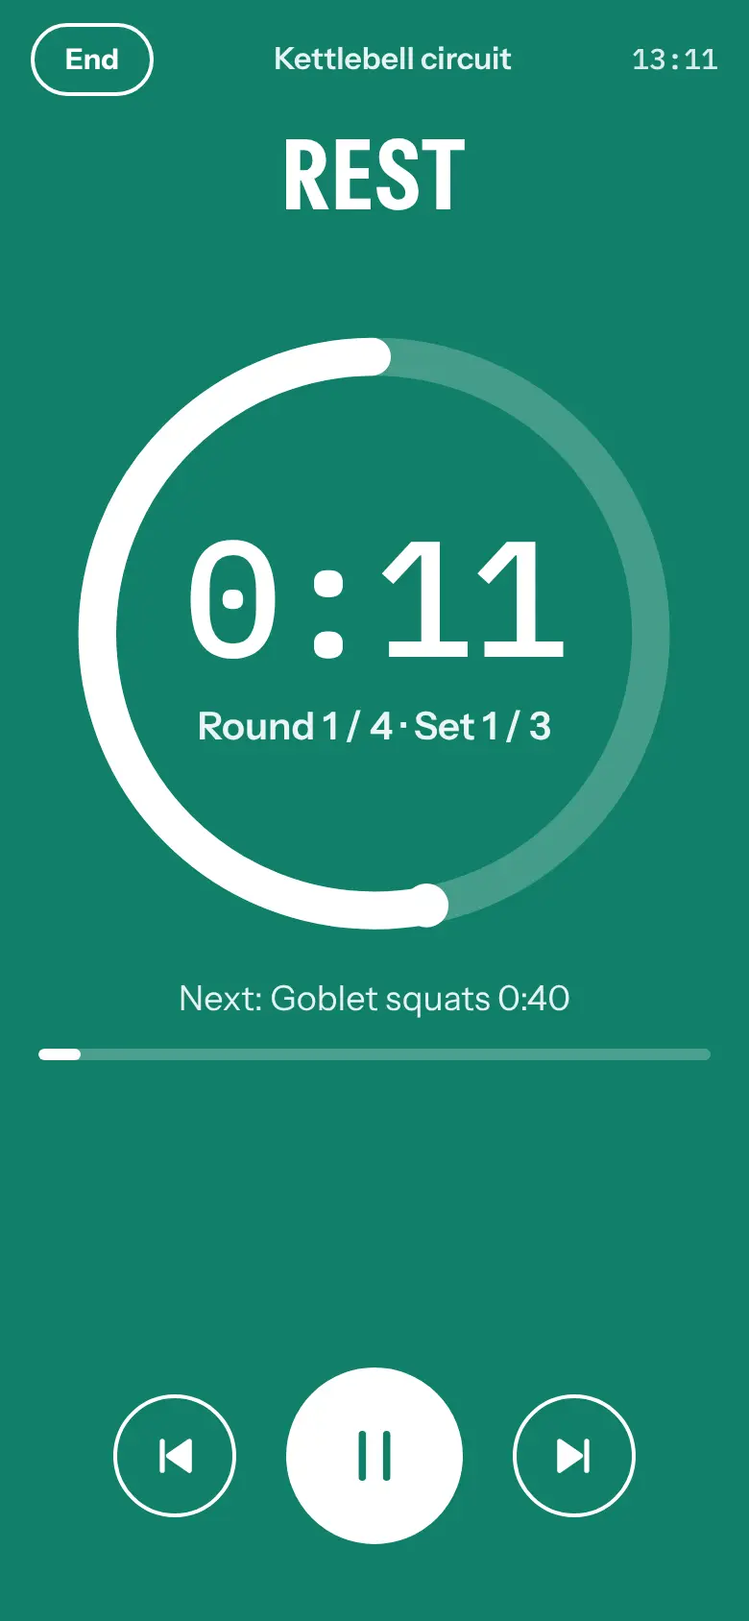
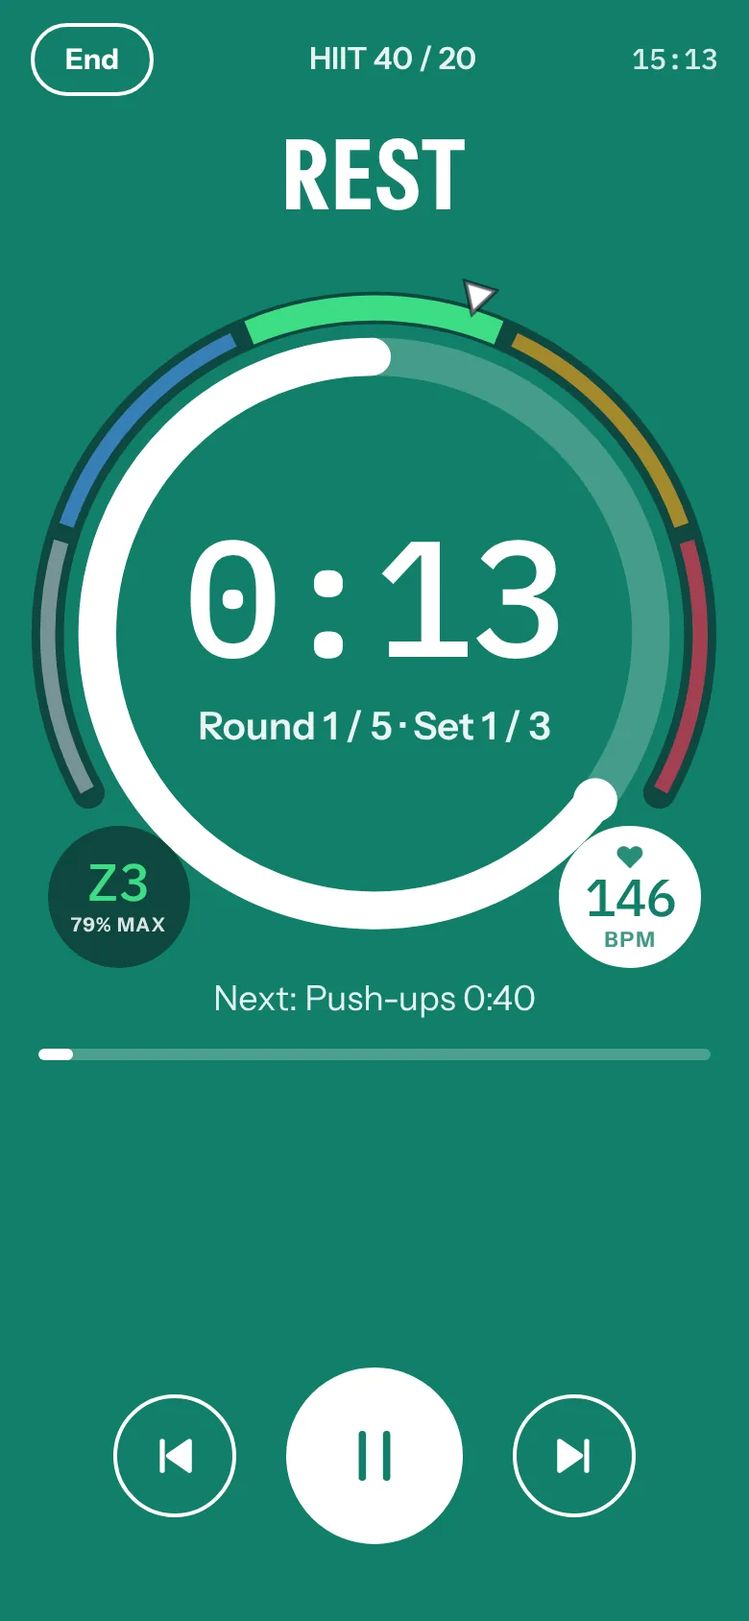
Flatbed launch: homepage card, Flatbed page and manual; Rounds rest screenshot
- Homepage: Flatbed card at the top (newest first).
- /flatbed/ page and /flatbed/manual/ (FB entry in tools/pages.mjs, manual from
  Flatbed's docs/MANUAL.md at 1.0.0 on its test branch), five screenshots,
  link-preview image social/og-flatbed.jpg, icons/flatbed.svg; sitemap.
- Rounds: rest screenshot with the zone ring, to match the work screenshot.

Held on this branch until Flatbed 1.0.0 is released; not for main before then.

Claude-Session: https://claude.ai/code/session_012xu5y2k6Q8KBdMQGucsDEw

diff --git a/flatbed/manual/index.html b/flatbed/manual/index.html
@@ -1,0 +1,146 @@
+<!doctype html>
+<html lang="en">
+<head>
+<meta charset="utf-8">
+<meta name="viewport" content="width=device-width,initial-scale=1,viewport-fit=cover">
+<title>Flatbed user manual</title>
+<meta name="description" content="How to use Flatbed: taking good photos, adjusting pages, making the PDF, reading text, and what it keeps private.">
+<link rel="canonical" href="https://anonacondacodelab.com/flatbed/manual/">
+<meta property="og:type" content="website">
+<meta property="og:site_name" content="Anonaconda Code Lab">
+<meta property="og:title" content="Flatbed user manual">
+<meta property="og:description" content="How to use Flatbed: taking good photos, adjusting pages, making the PDF, reading text, and what it keeps private.">
+<meta property="og:url" content="https://anonacondacodelab.com/flatbed/manual/">
+<meta property="og:image" content="https://anonacondacodelab.com/social/og-flatbed.jpg">
+<meta property="og:image:width" content="1200">
+<meta property="og:image:height" content="630">
+<meta name="twitter:card" content="summary_large_image">
+<meta name="referrer" content="no-referrer">
+<meta name="theme-color" content="#22362B">
+<link rel="icon" href="/favicon.ico" sizes="48x48">
+<link rel="icon" href="/favicon-192.png" type="image/png" sizes="192x192">
+<link rel="apple-touch-icon" href="/apple-touch-icon.png">
+<style>
+@font-face{font-family:"Instrument Sans";font-style:normal;font-display:swap;font-weight:400 700;font-stretch:75% 100%;
+  src:url(/fonts/InstrumentSans-latin-variable.woff2) format("woff2-variations")}
+:root{--paper:#ECEFE7; --new:#B31F39; --new-ink:#FFFFFF;--ink:#22362B;--line:#6E7F3A;--muted:#5E6B61;--rule:#CBD2C4;--head:#8FA048;--card:#F6F8F3;color-scheme:light dark}
+@media (prefers-color-scheme:dark){:root{--paper:#141A16; --new:#F07A8D; --new-ink:#141A16;--ink:#E3E8DE;--line:#A9B865;--muted:#94A096;--rule:#2C362F;--head:#B9C97A;--card:#1A221D}}
+*{box-sizing:border-box}
+html{-webkit-text-size-adjust:100%}
+body{margin:0;background:var(--paper);color:var(--ink);font:400 17px/1.6 "Instrument Sans",system-ui,sans-serif}
+a{color:inherit}
+a:focus-visible,summary:focus-visible{outline:2px solid var(--line);outline-offset:3px;border-radius:4px}
+.wrap{max-width:760px;margin:0 auto;padding-left:max(20px,env(safe-area-inset-left,0px));padding-right:max(20px,env(safe-area-inset-right,0px))}
+.crumbs{display:flex;align-items:center;gap:10px;padding-top:28px;font-size:15px;color:var(--muted)}
+.crumbs a{display:flex;align-items:center;gap:10px;font-weight:600;text-decoration:none}
+.crumbs img{width:30px;height:30px}
+header.hero{padding:40px 0 8px}
+.hero .icon{width:64px;height:64px;display:block}
+h1{font-size:clamp(44px,10vw,80px);line-height:.95;font-stretch:75%;font-weight:650;letter-spacing:-.01em;margin:18px 0 0;text-wrap:balance}
+.lede{font-size:clamp(19px,2.6vw,22px);line-height:1.45;max-width:32em;margin:18px 0 0}
+.needs{font-size:15px;color:var(--muted);max-width:40em;margin:10px 0 0}
+.links{display:flex;flex-wrap:wrap;gap:10px 18px;align-items:center;margin-top:20px}
+.open{display:inline-block;background:var(--ink);color:var(--paper);text-decoration:none;font-weight:600;padding:11px 20px;border-radius:999px}
+.open:hover{background:var(--line);color:#fff}
+.links a:not(.open){font-weight:500;text-underline-offset:3px}
+.soon{font-size:15px;margin-top:12px}
+.soon span{display:inline-block;font-size:11.5px;font-weight:650;letter-spacing:.06em;text-transform:uppercase;background:var(--line);color:var(--paper);padding:2px 9px;border-radius:999px;margin-right:9px;vertical-align:1px}
+.soon.new{margin-top:14px;padding:11px 14px;border-left:4px solid var(--new);border-radius:10px;background:color-mix(in srgb,var(--new) 9%,transparent);font-weight:550}
+.soon.new span{background:var(--new);color:var(--new-ink);font-size:13px;padding:3px 11px}
+.soon.new a{color:var(--new);font-weight:700}
+.shots{display:flex;gap:14px;overflow-x:auto;padding:28px 2px 18px;margin:20px 0 0;scroll-snap-type:x mandatory}
+.shots figure{margin:0;flex:none;width:210px;scroll-snap-align:start}
+.shots img{width:100%;height:auto;display:block;border-radius:18px;border:1px solid var(--rule);background:var(--card)}
+.shots.wide figure{width:280px}
+.shots figcaption{font-size:13.5px;color:var(--muted);margin-top:8px;line-height:1.35}
+h2{font-size:30px;font-stretch:85%;font-weight:600;line-height:1.1;margin:44px 0 6px;text-wrap:balance}
+h3{font-size:18.5px;font-weight:600;margin:0}
+.features{display:grid;grid-template-columns:repeat(auto-fit,minmax(240px,1fr));gap:22px 28px;margin-top:18px}
+.features p{margin:4px 0 0;font-size:16px}
+.needlist{margin:10px 0 0;padding-left:20px}
+.needlist li{margin:4px 0}
+details{border-top:1px solid var(--rule);padding:14px 0}
+details:last-of-type{border-bottom:1px solid var(--rule)}
+summary{cursor:pointer;font-weight:600;font-size:17.5px}
+details p{margin:8px 0 0;max-width:40em}
+.note{font-size:15px;color:var(--muted);margin-top:26px;max-width:40em}
+.manual{max-width:42em}
+.manual h2{font-size:26px;margin-top:36px}
+.manual h3{margin-top:22px;font-size:18px}
+.manual ul,.manual ol{padding-left:22px}
+.manual li{margin:4px 0}
+.manual code{font-size:14px;background:var(--card);border:1px solid var(--rule);border-radius:5px;padding:0 4px;overflow-wrap:anywhere}
+.manual .callout{border:2px solid var(--head);border-radius:14px;padding:4px 18px;margin:18px 0;background:var(--card)}
+.manual hr{border:0;border-top:1px solid var(--rule);margin:28px 0}
+.manual table{border-collapse:collapse;margin:14px 0;font-size:16px;display:block;overflow-x:auto;max-width:100%}
+.manual th,.manual td{border-bottom:1px solid var(--rule);padding:6px 16px 6px 0;text-align:left;white-space:nowrap}
+.manual th{font-weight:600}
+footer{border-top:1px solid var(--rule);margin-top:48px;padding:26px 0 48px;font-size:15px;color:var(--muted)}
+footer nav{display:flex;flex-wrap:wrap;gap:8px 22px;margin-bottom:14px}
+footer nav a{color:var(--ink);font-weight:500;text-underline-offset:3px}
+footer p{margin:6px 0;max-width:40em}
+</style>
+</head>
+<body>
+<div class="wrap">
+  <div class="crumbs"><a href="/"><img src="/favicon-192.png" alt="">Anonaconda Code Lab</a></div>
+  <header class="hero">
+    <img class="icon" src="/icons/flatbed.svg" alt="">
+    <h1>Flatbed user manual</h1>
+    <div class="links"><a class="open" href="https://flatbed.anonacondacodelab.com">Open Flatbed</a><a href="/flatbed/">About Flatbed</a></div>
+  </header>
+  <main><article class="manual">
+<h2>What Flatbed does</h2>
+<p>Flatbed turns photos of documents into clean, flat, readable PDFs. Photograph a letter, a form, a receipt or an ID card, and Flatbed finds the page, corrects the angle, straightens the text, cleans up shadows, reads the text and puts it all in a PDF that you can search and copy from.</p>
+<p>Everything happens <b>on your device</b>. Your pages are never uploaded anywhere, and nothing is kept once you close the app.</p>
+<div class="callout"><p>A scanner sees your most private papers: passports, bank letters, contracts, medical results. Most scanner apps send them to their own servers to read the text. Flatbed can't: it has no way to connect to the internet at all.</p></div>
+<h2>Why scan with Flatbed</h2>
+<ul><li><b>Passport and ID copies.</b> A visa application, a new rental, a school or a job often asks for a copy of your passport or ID card. With Flatbed that copy is made and kept on your phone only, and goes only where you send it.</li><li><b>Money and work.</b> Bank letters, tax forms, payslips and contracts are read and turned into a PDF right here, without an account and without anyone else's server seeing the numbers.</li><li><b>Health.</b> Prescriptions, test results and insurance claims stay between you and whoever you choose to send them to.</li><li><b>Receipts and expense claims.</b> The PDF holds the receipt and nothing else: no phone model, no location, no date and time of the photo.</li><li><b>Documents for strangers.</b> Landlords, employers, agencies and online forms get the pages you meant to send, not details about you or your phone.</li></ul>
+<h2>How to scan</h2>
+<ol><li>Tap <b>Take a photo</b>, or <b>Import photos</b> to use pictures you already have. You can add pages one after another. In the Android app, <b>Take a photo</b> opens your phone's own camera app. Flatbed itself has no camera permission. You can also share photos to Flatbed from your gallery (<b>Share → Flatbed</b>).</li><li>Flatbed looks for the edges of the page in each photo, flattens it as if it had been on a scanner's glass, and levels the lines of text. The pages appear in a list.</li><li>Tap a page to adjust it (see below). Use the arrows under a page to change the order.</li><li>Tap <b>Make PDF</b>, choose the options, and tap <b>Make PDF</b> again.</li><li><b>Save</b> or <b>Share</b> the PDF. You can also copy the recognised text, or save it as a plain text file. In Chrome or Edge on a computer, <b>Save</b> lets you choose the folder and the name. Other browsers save to their Downloads folder, but most can ask each time instead: in Chrome on Android, turn on <b>Ask where to save files</b> in Chrome's settings, under <b>Downloads</b>; in Firefox on a computer, choose <b>Always ask you where to save files</b> in Settings, under <b>Files and Applications</b>. Firefox on Android always uses the Downloads folder; <b>Share</b> sends the PDF straight to another app instead. In the Android app, Save always lets you choose.</li></ol>
+<h3>Taking a good photo</h3>
+<ul><li><b>Light:</b> daylight or a bright room, without the flash. Avoid your own shadow falling across the page.</li><li><b>Background:</b> a page shows up best on a darker surface (a wooden table rather than a white desk).</li><li><b>Angle:</b> hold the phone roughly above the page. Flatbed corrects a fair amount of tilt, but the sharper the text, the better it can be read.</li><li><b>Whole page:</b> keep all four corners in the picture.</li></ul>
+<p>In the web app, the camera view outlines the page in orange when it has found it.</p>
+<p>Photos can be up to 60 MB and 100 megapixels each (a phone camera's usual photos are well under both), and a PDF can have up to 60 pages. If your camera has a special very-high-resolution mode, use its normal mode for scanning.</p>
+<h2>Adjusting a page</h2>
+<p><b>Crop.</b> Drag the four corners to the corners of the page. While you drag, a magnifier shows exactly where the corner is. <b>Find the page</b> looks for the edges again; <b>Use the whole photo</b> keeps everything (useful for a screenshot or a photo that is already cropped).</p>
+<p><b>Adjust.</b> Choose how the page looks:</p>
+<ul><li><b>Original:</b> the colours as photographed.</li><li><b>Enhanced</b> (the default): white paper and clear ink, with shadows and uneven light removed, colours kept. Good for most documents, stamps and coloured forms.</li><li><b>Grey:</b> the same, in shades of grey.</li><li><b>Black &amp; white:</b> pure black text on white. The sharpest and smallest PDF for plain text documents; not for photos.</li></ul>
+<p>The <b>Contrast</b> (or <b>Text darkness</b>) slider makes the result lighter or darker. <b>Turn left</b> and <b>Turn right</b> rotate the page. <b>Straighten text lines</b> levels a page whose lines are slightly tilted; turn it off for a page with no lines of text, such as a drawing.</p>
+<h2>Making the PDF</h2>
+<p><b>Page size.</b> A4, Letter, or <b>Same as the scan</b> (the page keeps the shape of what you photographed, such as a receipt or a card). The default follows your device's region.</p>
+<p><b>Text.</b></p>
+<ul><li><b>Searchable PDF:</b> Flatbed reads the text and adds it to the PDF as an invisible layer behind the picture. You can then search the PDF, and select and copy its text. The reading happens on your device and takes a few seconds per page.</li><li><b>Image-only PDF (no text layer):</b> only the pictures of the pages. Choose this when you'd rather the text couldn't be copied or searched easily, for example for an ID card. (Anyone can still read what they can see.)</li></ul>
+<p><b>Language.</b> Choose the language of the document, up to two at a time: English, French, Spanish, German and Thai are built in. Choosing the right language matters: it is how Flatbed knows which letters and words to expect.</p>
+<p><b>File name.</b> The PDF is called <code>scan.pdf</code> unless you choose another name. Camera file names such as <code>IMG_20261025_091233.jpg</code>, which give away the date and time, are never used.</p>
+<h3>Reading text: what to expect</h3>
+<p>Clear, printed text on a flat, well-lit page is usually read almost perfectly. Results are weaker for small print (some receipts), creased or curved pages, low light, unusual fonts, and tables or several columns. Handwriting isn't read. Check important figures before relying on the recognised text.</p>
+<p>Thai text has no spaces between words, so when you select text in the PDF, a &quot;word&quot; may cover more or less than you expect.</p>
+<h2>Privacy</h2>
+<p>Before you make a PDF, Flatbed shows a <b>Private by default</b> panel listing what it leaves out:</p>
+<ul><li><b>Hidden data in your photos.</b> Photos usually carry where they were taken, when, and which phone took them (see Unmarked, our app for cleaning photos and PDFs). Flatbed lists what your photos carried, and leaves all of it out: each page is redrawn from the picture alone, so nothing from the photo file is copied.</li><li><b>No author, app name or dates.</b> The PDF has no title, author, app name, or creation and change dates.</li><li><b>No document ID.</b> Nothing that could link the PDF to other files, to this app or to your phone.</li><li><b>The surroundings.</b> Only the page is kept; the table, your hands and the room are cut away.</li></ul>
+<p>Every PDF is also put through the same cleaner as Unmarked and <b>checked</b> before you can save it. The result appears as <i>Checked: no hidden data in the PDF</i>.</p>
+<p><b>What Flatbed can't remove:</b> what's on the page itself. Names, numbers, signatures, photos and stamps on the document are in the scan. Cover anything you don't want to send before you take the photo.</p>
+<p><b>Your camera app may keep its own copy.</b> When Flatbed hands over to your phone's camera app to take a photo, some camera apps also save a copy in your gallery, with the place it was taken if your camera records locations. Flatbed can't prevent that: delete the copy from your gallery if you don't want it, or turn off location in your camera app's settings.</p>
+<p><b>No network, nothing stored.</b> The web app blocks every network connection, and the Android app has no internet permission and no camera permission. Opening the web app is an ordinary visit to its website, like any page; once it has loaded, nothing you scan is sent anywhere. Your pages are held in memory only, and are gone when you close the app; the web app asks before you leave a page that still has scans on it. The only things remembered on your device are your choices of page size, text and language, and a count of PDFs made (used only to ask, now and then, whether you would like to support the app).</p>
+<p><b>Translating the page.</b> If you use your browser's <i>Translate</i> button, the browser sends the page's text to its translation service (Google's, in Chrome). Flatbed marks your pages, the recognised text and your file name so the translator leaves them out: only the app's own buttons and labels are translated.</p>
+<h2>The Android app</h2>
+<p>Flatbed is also an Android app: the same app, with <b>Take a photo</b> using your phone's own camera app, <b>Share → Flatbed</b> from your gallery, and saving and sharing through Android's own screens. It has <b>no internet permission and no camera permission</b>. It is not on Google Play; download it from <b>flatbed.anonacondacodelab.com/android.html</b>, which also explains how to install it and how to check that it's the official build. <b>About → Check for updates</b> tells you when a new version is out.</p>
+<h2>No guarantee</h2>
+<p>Flatbed is free software provided as it is, without any warranty. Check the PDF before you send anything important. You are responsible for what you share, and Anonaconda Code Lab accepts no liability for any loss or harm from using this app.</p>
+<h2>Support and feedback</h2>
+<p>Flatbed is free and open source, with no ads or tracking. If it's useful to you, you can support it on Ko-fi: <a href="https://ko-fi.com/anonacondacodelab">ko-fi.com/anonacondacodelab</a>. Questions, problems or a language you'd like added: hello@anonacondacodelab.com. A description or a screenshot of the app is usually enough; please don't send the documents you were scanning.</p>
+  </article></main>
+  <footer>
+    <nav aria-label="Studio links">
+      <a href="/">All apps</a>
+      <a href="https://ko-fi.com/anonacondacodelab">Support on Ko-fi</a>
+      <a href="https://github.com/Anonaconda-CodeLab">GitHub</a>
+      <a href="https://mastodon.social/@anonacondacodelab" rel="me">Mastodon</a>
+    </nav>
+    <p>No cookies, no analytics, no tracking, on this page or in the apps.</p>
+    <p>© 2026 Anonaconda Code Lab. Apps are free software under the GNU GPL v3. Polar and H10 are trademarks of Polar Electro Oy; Garmin, HRM-Dual and HRM-Pro of Garmin Ltd.; Wahoo and TICKR of Wahoo Fitness; Coospo, Magene and Decathlon of their respective owners. These apps are independent and not affiliated with any of them.</p>
+  </footer>
+</div>
+</body>
+</html>

diff --git a/flatbed/index.html b/flatbed/index.html
@@ -1,0 +1,143 @@
+<!doctype html>
+<html lang="en">
+<head>
+<meta charset="utf-8">
+<meta name="viewport" content="width=device-width,initial-scale=1,viewport-fit=cover">
+<title>Flatbed: a free, private document scanner that makes searchable PDFs</title>
+<meta name="description" content="Scan documents with your phone: Flatbed finds the page, flattens and cleans it, reads the text offline and makes a searchable PDF with no hidden details. Free, open source, and nothing leaves your device.">
+<link rel="canonical" href="https://anonacondacodelab.com/flatbed/">
+<meta property="og:type" content="website">
+<meta property="og:site_name" content="Anonaconda Code Lab">
+<meta property="og:title" content="Flatbed: a free, private document scanner that makes searchable PDFs">
+<meta property="og:description" content="Scan documents with your phone: Flatbed finds the page, flattens and cleans it, reads the text offline and makes a searchable PDF with no hidden details. Free, open source, and nothing leaves your device.">
+<meta property="og:url" content="https://anonacondacodelab.com/flatbed/">
+<meta property="og:image" content="https://anonacondacodelab.com/social/og-flatbed.jpg">
+<meta property="og:image:width" content="1200">
+<meta property="og:image:height" content="630">
+<meta name="twitter:card" content="summary_large_image">
+<meta name="referrer" content="no-referrer">
+<meta name="theme-color" content="#22362B">
+<link rel="icon" href="/favicon.ico" sizes="48x48">
+<link rel="icon" href="/favicon-192.png" type="image/png" sizes="192x192">
+<link rel="apple-touch-icon" href="/apple-touch-icon.png">
+<script type="application/ld+json">{"@context":"https://schema.org","@type":"WebApplication","name":"Flatbed","url":"https://flatbed.anonacondacodelab.com","description":"Scan documents with your phone: Flatbed finds the page, flattens and cleans it, reads the text offline and makes a searchable PDF with no hidden details. Free, open source, and nothing leaves your device.","applicationCategory":"BusinessApplication","operatingSystem":"Android app; any modern browser on Android, iPhone, iPad, Windows, macOS, ChromeOS, Linux","browserRequirements":"Any modern browser","offers":{"@type":"Offer","price":"0","priceCurrency":"USD"},"isAccessibleForFree":true,"license":"https://www.gnu.org/licenses/gpl-3.0.html","image":"https://anonacondacodelab.com/social/og-flatbed.jpg","author":{"@type":"Organization","name":"Anonaconda Code Lab","url":"https://anonacondacodelab.com/"}}</script>
+<style>
+@font-face{font-family:"Instrument Sans";font-style:normal;font-display:swap;font-weight:400 700;font-stretch:75% 100%;
+  src:url(/fonts/InstrumentSans-latin-variable.woff2) format("woff2-variations")}
+:root{--paper:#ECEFE7; --new:#B31F39; --new-ink:#FFFFFF;--ink:#22362B;--line:#6E7F3A;--muted:#5E6B61;--rule:#CBD2C4;--head:#8FA048;--card:#F6F8F3;color-scheme:light dark}
+@media (prefers-color-scheme:dark){:root{--paper:#141A16; --new:#F07A8D; --new-ink:#141A16;--ink:#E3E8DE;--line:#A9B865;--muted:#94A096;--rule:#2C362F;--head:#B9C97A;--card:#1A221D}}
+*{box-sizing:border-box}
+html{-webkit-text-size-adjust:100%}
+body{margin:0;background:var(--paper);color:var(--ink);font:400 17px/1.6 "Instrument Sans",system-ui,sans-serif}
+a{color:inherit}
+a:focus-visible,summary:focus-visible{outline:2px solid var(--line);outline-offset:3px;border-radius:4px}
+.wrap{max-width:760px;margin:0 auto;padding-left:max(20px,env(safe-area-inset-left,0px));padding-right:max(20px,env(safe-area-inset-right,0px))}
+.crumbs{display:flex;align-items:center;gap:10px;padding-top:28px;font-size:15px;color:var(--muted)}
+.crumbs a{display:flex;align-items:center;gap:10px;font-weight:600;text-decoration:none}
+.crumbs img{width:30px;height:30px}
+header.hero{padding:40px 0 8px}
+.hero .icon{width:64px;height:64px;display:block}
+h1{font-size:clamp(44px,10vw,80px);line-height:.95;font-stretch:75%;font-weight:650;letter-spacing:-.01em;margin:18px 0 0;text-wrap:balance}
+.lede{font-size:clamp(19px,2.6vw,22px);line-height:1.45;max-width:32em;margin:18px 0 0}
+.needs{font-size:15px;color:var(--muted);max-width:40em;margin:10px 0 0}
+.links{display:flex;flex-wrap:wrap;gap:10px 18px;align-items:center;margin-top:20px}
+.open{display:inline-block;background:var(--ink);color:var(--paper);text-decoration:none;font-weight:600;padding:11px 20px;border-radius:999px}
+.open:hover{background:var(--line);color:#fff}
+.links a:not(.open){font-weight:500;text-underline-offset:3px}
+.soon{font-size:15px;margin-top:12px}
+.soon span{display:inline-block;font-size:11.5px;font-weight:650;letter-spacing:.06em;text-transform:uppercase;background:var(--line);color:var(--paper);padding:2px 9px;border-radius:999px;margin-right:9px;vertical-align:1px}
+.soon.new{margin-top:14px;padding:11px 14px;border-left:4px solid var(--new);border-radius:10px;background:color-mix(in srgb,var(--new) 9%,transparent);font-weight:550}
+.soon.new span{background:var(--new);color:var(--new-ink);font-size:13px;padding:3px 11px}
+.soon.new a{color:var(--new);font-weight:700}
+.shots{display:flex;gap:14px;overflow-x:auto;padding:28px 2px 18px;margin:20px 0 0;scroll-snap-type:x mandatory}
+.shots figure{margin:0;flex:none;width:210px;scroll-snap-align:start}
+.shots img{width:100%;height:auto;display:block;border-radius:18px;border:1px solid var(--rule);background:var(--card)}
+.shots.wide figure{width:280px}
+.shots figcaption{font-size:13.5px;color:var(--muted);margin-top:8px;line-height:1.35}
+h2{font-size:30px;font-stretch:85%;font-weight:600;line-height:1.1;margin:44px 0 6px;text-wrap:balance}
+h3{font-size:18.5px;font-weight:600;margin:0}
+.features{display:grid;grid-template-columns:repeat(auto-fit,minmax(240px,1fr));gap:22px 28px;margin-top:18px}
+.features p{margin:4px 0 0;font-size:16px}
+.needlist{margin:10px 0 0;padding-left:20px}
+.needlist li{margin:4px 0}
+details{border-top:1px solid var(--rule);padding:14px 0}
+details:last-of-type{border-bottom:1px solid var(--rule)}
+summary{cursor:pointer;font-weight:600;font-size:17.5px}
+details p{margin:8px 0 0;max-width:40em}
+.note{font-size:15px;color:var(--muted);margin-top:26px;max-width:40em}
+.manual{max-width:42em}
+.manual h2{font-size:26px;margin-top:36px}
+.manual h3{margin-top:22px;font-size:18px}
+.manual ul,.manual ol{padding-left:22px}
+.manual li{margin:4px 0}
+.manual code{font-size:14px;background:var(--card);border:1px solid var(--rule);border-radius:5px;padding:0 4px;overflow-wrap:anywhere}
+.manual .callout{border:2px solid var(--head);border-radius:14px;padding:4px 18px;margin:18px 0;background:var(--card)}
+.manual hr{border:0;border-top:1px solid var(--rule);margin:28px 0}
+.manual table{border-collapse:collapse;margin:14px 0;font-size:16px;display:block;overflow-x:auto;max-width:100%}
+.manual th,.manual td{border-bottom:1px solid var(--rule);padding:6px 16px 6px 0;text-align:left;white-space:nowrap}
+.manual th{font-weight:600}
+footer{border-top:1px solid var(--rule);margin-top:48px;padding:26px 0 48px;font-size:15px;color:var(--muted)}
+footer nav{display:flex;flex-wrap:wrap;gap:8px 22px;margin-bottom:14px}
+footer nav a{color:var(--ink);font-weight:500;text-underline-offset:3px}
+footer p{margin:6px 0;max-width:40em}
+</style>
+</head>
+<body>
+<div class="wrap">
+  <div class="crumbs"><a href="/"><img src="/favicon-192.png" alt="">Anonaconda Code Lab</a></div>
+  <header class="hero">
+    <img class="icon" src="/icons/flatbed.svg" alt="">
+    <h1>Flatbed</h1>
+    <p class="lede">Photograph a letter, form, receipt or ID. Flatbed finds the page, flattens and straightens it, cleans up shadows, reads the text and makes a PDF you can search and copy from, with no hidden details about you or your phone.</p>
+    <p class="needs">Free. Works in any modern browser on a phone, tablet or computer. No account, no upload: your pages never leave your device, and even the text is read offline.</p>
+    <p class="soon new"><span>New</span>Also as an <a href="https://flatbed.anonacondacodelab.com/android.html">Android app</a>, with no internet permission and no camera permission: it uses your phone’s own camera app.</p>
+    
+    <div class="links"><a class="open" href="https://flatbed.anonacondacodelab.com">Open Flatbed</a><a href="https://flatbed.anonacondacodelab.com/android.html">Android app</a><a href="/flatbed/manual/">User manual</a><a href="https://github.com/Anonaconda-CodeLab/flatbed">Source code</a></div>
+  </header>
+  <main>
+    <div class="shots" role="list" aria-label="Screenshots">
+      <figure role="listitem"><img src="/screens/flatbed/1-home.webp" alt="Take a photo or import one, and see why private scanning matters" width="780" height="1688" loading="lazy"><figcaption>Take a photo or import one, and see why private scanning matters</figcaption></figure>
+      <figure role="listitem"><img src="/screens/flatbed/2-crop.webp" alt="The page is found for you; drag the corners if needed" width="780" height="1688" loading="lazy"><figcaption>The page is found for you; drag the corners if needed</figcaption></figure>
+      <figure role="listitem"><img src="/screens/flatbed/3-adjust.webp" alt="Flattened, straightened and cleaned: shadows and uneven light removed" width="780" height="1688" loading="lazy"><figcaption>Flattened, straightened and cleaned: shadows and uneven light removed</figcaption></figure>
+      <figure role="listitem"><img src="/screens/flatbed/4-private.webp" alt="Private by default: what the PDF leaves out, in plain words" width="780" height="1688" loading="lazy"><figcaption>Private by default: what the PDF leaves out, in plain words</figcaption></figure>
+      <figure role="listitem"><img src="/screens/flatbed/5-ready.webp" alt="A searchable PDF, checked: no hidden data inside" width="780" height="1688" loading="lazy"><figcaption>A searchable PDF, checked: no hidden data inside</figcaption></figure>
+    </div>
+    <h2>What it does</h2>
+    <div class="features">
+      <div><h3>Camera or import</h3><p>Take a photo with a live view that outlines the page, or import photos from your gallery. In the Android app, Share → Flatbed works from any app.</p></div>
+      <div><h3>Finds and flattens the page</h3><p>The corners are found automatically (drag them if needed, with a magnifier), and the page is flattened as if it had been on a scanner’s glass. Slightly tilted lines of text are levelled.</p></div>
+      <div><h3>Clean pages</h3><p>Enhanced removes shadows and uneven light and makes the paper white; Grey and Black & white for plain text; a contrast slider and 90° turns.</p></div>
+      <div><h3>Searchable PDFs</h3><p>The text is read and added as an invisible layer, so you can search the PDF and copy its text. Copy or save the text on its own, too.</p></div>
+      <div><h3>Reads text offline</h3><p>Text recognition runs on your device, with English, French, Spanish, German and Thai built in. Nothing is sent anywhere to be read.</p></div>
+      <div><h3>Several pages</h3><p>Add as many pages as you need and put them in order. A4, Letter, or the shape of what you scanned, such as a receipt or a card.</p></div>
+      <div><h3>No hidden details</h3><p>Pages are redrawn from the picture alone, so no location, phone model or time from your photos reaches the PDF. The PDF has no author, app name, dates or document ID.</p></div>
+      <div><h3>Checked before you save</h3><p>Every PDF goes through the same cleaner as Unmarked and is checked before it’s offered: “Checked: no hidden data in the PDF”.</p></div>
+      <div><h3>Image-only option</h3><p>Prefer the text not to be copyable, for example on an ID copy? Make a PDF with no text layer at all.</p></div>
+      <div><h3>Private by design</h3><p>No account, no server, no analytics. The web app blocks every network connection; the Android app has no internet permission and no camera permission.</p></div>
+    </div>
+    <h2>What you need</h2>
+    <ul class="needlist"><li>Any modern browser on a phone, tablet or computer: Chrome, Edge, Brave, Firefox or Safari.</li><li>Or the <a href="https://flatbed.anonacondacodelab.com/android.html"><b>Android app</b></a>, which uses your phone’s own camera app and adds <b>Share → Flatbed</b>.</li><li>Photos in JPEG, PNG or WebP. HEIC photos need converting to JPEG first.</li></ul>
+    <h2>Questions</h2>
+    <details><summary>Is Flatbed really free?</summary><p>Yes. No subscription, no account and no ads. If you find it useful, you can support it on <a href="https://ko-fi.com/anonacondacodelab">Ko-fi</a>.</p></details>
+    <details><summary>Are my documents uploaded anywhere?</summary><p>No. Everything happens on your own device, including reading the text. The web app blocks every network connection, and the Android app has no internet permission, so your pages can’t be sent anywhere.</p></details>
+    <details><summary>How good is the text recognition?</summary><p>Clear, printed text on a flat, well-lit page is usually read almost perfectly. Small print, creased pages, low light, unusual fonts and tables are harder, and handwriting isn’t read. Check important figures.</p></details>
+    <details><summary>Which languages can it read?</summary><p>English, French, Spanish, German and Thai, up to two at a time. More may follow.</p></details>
+    <details><summary>Why doesn’t the Android app need camera permission?</summary><p>It asks your phone’s own camera app to take the photo and hand it over, so Flatbed never controls the camera itself.</p></details>
+    <details><summary>What can’t it remove?</summary><p>What’s on the page itself: names, numbers, signatures and photos on the document. Cover anything you don’t want to send before you take the photo.</p></details>
+    <details><summary>Why isn’t the Android app on Google Play?</summary><p>Publishing there means registering with Google and handing over government ID, and Google is extending that check to apps installed from elsewhere. We think you should be able to install software you choose on a phone you own, so we support <a href="https://keepandroidopen.org">Keep Android Open</a> and offer the app directly. The <a href="https://flatbed.anonacondacodelab.com/android.html">Android page</a> explains how to install it and check it’s the official build.</p></details>
+    <details><summary>Is the code open?</summary><p>Flatbed is free software under the GNU GPL v3. The <a href="https://github.com/Anonaconda-CodeLab/flatbed">source code is on GitHub</a>, and every Android release is built from it automatically, with a checksum to verify the download.</p></details>
+    <p class="note">Flatbed is provided as it is, without any warranty. Check the PDF, and the recognised text, before you send anything important.</p>
+  </main>
+  <footer>
+    <nav aria-label="Studio links">
+      <a href="/">All apps</a>
+      <a href="https://ko-fi.com/anonacondacodelab">Support on Ko-fi</a>
+      <a href="https://github.com/Anonaconda-CodeLab">GitHub</a>
+      <a href="https://mastodon.social/@anonacondacodelab" rel="me">Mastodon</a>
+    </nav>
+    <p>No cookies, no analytics, no tracking, on this page or in the apps.</p>
+    <p>© 2026 Anonaconda Code Lab. Apps are free software under the GNU GPL v3. Polar and H10 are trademarks of Polar Electro Oy; Garmin, HRM-Dual and HRM-Pro of Garmin Ltd.; Wahoo and TICKR of Wahoo Fitness; Coospo, Magene and Decathlon of their respective owners. These apps are independent and not affiliated with any of them.</p>
+  </footer>
+</div>
+</body>
+</html>

diff --git a/rounds/index.html b/rounds/index.html
@@ -99,7 +99,7 @@ footer p{margin:6px 0;max-width:40em}
       <figure role="listitem"><img src="/screens/rounds/1-home.webp" alt="Favourites, your own timers and 16 presets, sorted by goal or hardest first" width="780" height="1688" loading="lazy"><figcaption>Favourites, your own timers and 16 presets, sorted by goal or hardest first</figcaption></figure>
       <figure role="listitem"><img src="/screens/rounds/2-about.webp" alt="Every preset explains what it is, how to do it, why it works and where it comes from" width="780" height="1688" loading="lazy"><figcaption>Every preset explains what it is, how to do it, why it works and where it comes from</figcaption></figure>
       <figure role="listitem"><img src="/screens/rounds/3-work.webp" alt="Work: the whole screen turns orange; with a strap, the ring around it shows your heart-rate zone" width="780" height="1688" loading="lazy"><figcaption>Work: the whole screen turns orange; with a strap, the ring around it shows your heart-rate zone</figcaption></figure>
-      <figure role="listitem"><img src="/screens/rounds/4-rest.webp" alt="Rest: green, with what comes next" width="780" height="1688" loading="lazy"><figcaption>Rest: green, with what comes next</figcaption></figure>
+      <figure role="listitem"><img src="/screens/rounds/4-rest.webp" alt="Rest: green, with what comes next, and your zone as you recover" width="780" height="1688" loading="lazy"><figcaption>Rest: green, with what comes next, and your zone as you recover</figcaption></figure>
       <figure role="listitem"><img src="/screens/rounds/5-editor.webp" alt="Build your own: work, rest, rounds, sets, warm-up, cool-down and exercise names" width="780" height="1688" loading="lazy"><figcaption>Build your own: work, rest, rounds, sets, warm-up, cool-down and exercise names</figcaption></figure>
       <figure role="listitem"><img src="/screens/rounds/6-finish.webp" alt="Done: work rounds and time, your heart rate and the time you spent in each zone" width="780" height="1688" loading="lazy"><figcaption>Done: work rounds and time, your heart rate and the time you spent in each zone</figcaption></figure>
     </div>

diff --git a/index.html b/index.html
@@ -107,6 +107,20 @@ footer .thanks a{font-weight:500;text-underline-offset:3px}
     <ol class="apps" reversed aria-label="Apps, newest first">
       <li class="app">
         <time datetime="2026-10">Released October 2026</time>
+        <h2><img src="icons/flatbed.svg" alt=""><a href="/flatbed/" class="h2link">Flatbed</a></h2>
+        <p>Scan documents with your phone. Photograph a letter, form, receipt or ID, and Flatbed finds the page, flattens and straightens it, cleans up shadows, reads the text and makes a PDF you can search and copy from, with no hidden details about you or your phone.</p>
+        <p class="needs">Works in any modern browser on a phone, tablet or computer. The text is read on your device, in English, French, Spanish, German or Thai, and your pages never leave it.</p>
+        <p class="soon new"><span>New</span>Also as an <a href="https://flatbed.anonacondacodelab.com/android.html">Android app</a>, with no internet permission and no camera permission: it uses your phone’s own camera app.</p>
+        <div class="links">
+          <a class="open" href="https://flatbed.anonacondacodelab.com">Open Flatbed</a>
+          <a href="https://flatbed.anonacondacodelab.com/android.html">Android app</a>
+          <a href="/flatbed/">More about Flatbed</a>
+          <a href="/flatbed/manual/">User manual</a>
+          <a href="https://github.com/Anonaconda-CodeLab/flatbed">Source code</a>
+        </div>
+      </li>
+      <li class="app">
+        <time datetime="2026-10">Released October 2026</time>
         <h2><img src="icons/unmarked.svg" alt=""><a href="/unmarked/" class="h2link">Unmarked</a></h2>
         <p>Photos and documents carry details you can’t see: where a photo was taken, which phone took it, who wrote a document and what was deleted from it. Unmarked shows you what’s there and makes a clean copy without it, for photos and PDFs, many at once.</p>
         <p class="needs">Works in any modern browser on a phone, tablet or computer. Photos are cleaned without any loss of quality, and your files never leave your device.</p>
